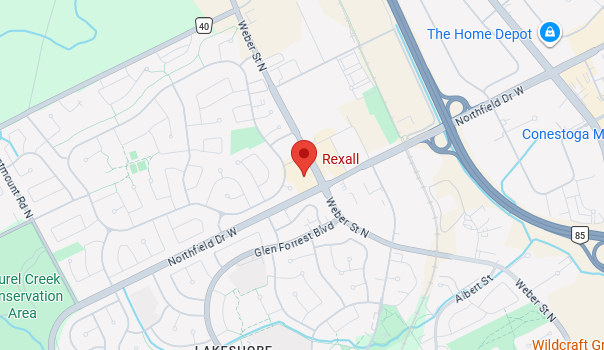
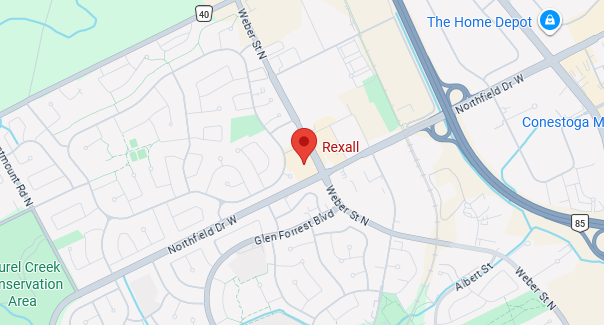
Add files via upload

diff --git a/styles.css b/styles.css
@@ -34,7 +34,7 @@ body {
   -webkit-font-smoothing: antialiased;
 }
 
-img { max-width: 100%; display: block; }
+img { max-width: 100%; display: block; border-radius: 10px; }
 
 h1, h2, h3 {
   font-family: var(--font-heading);
